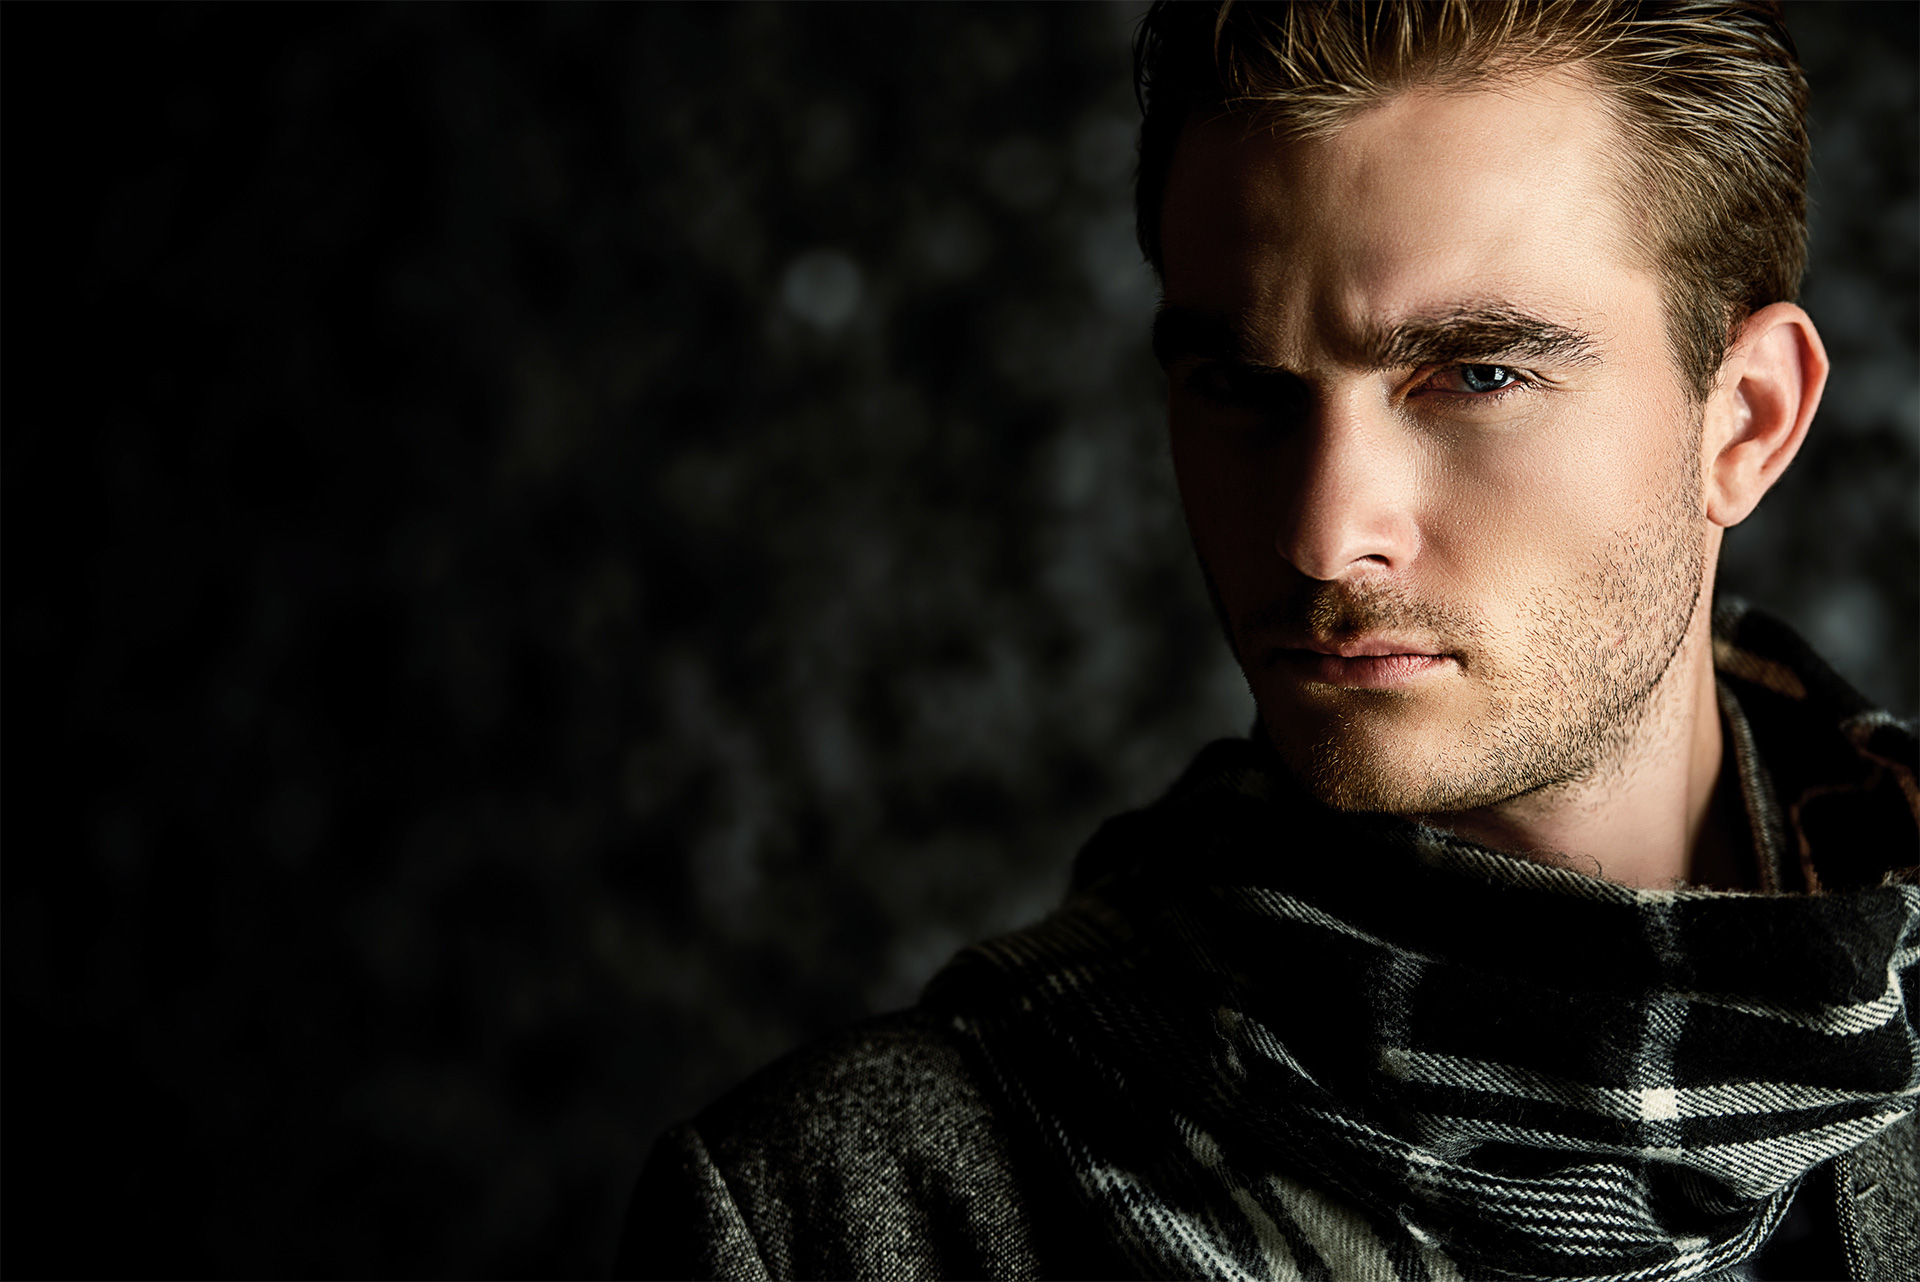
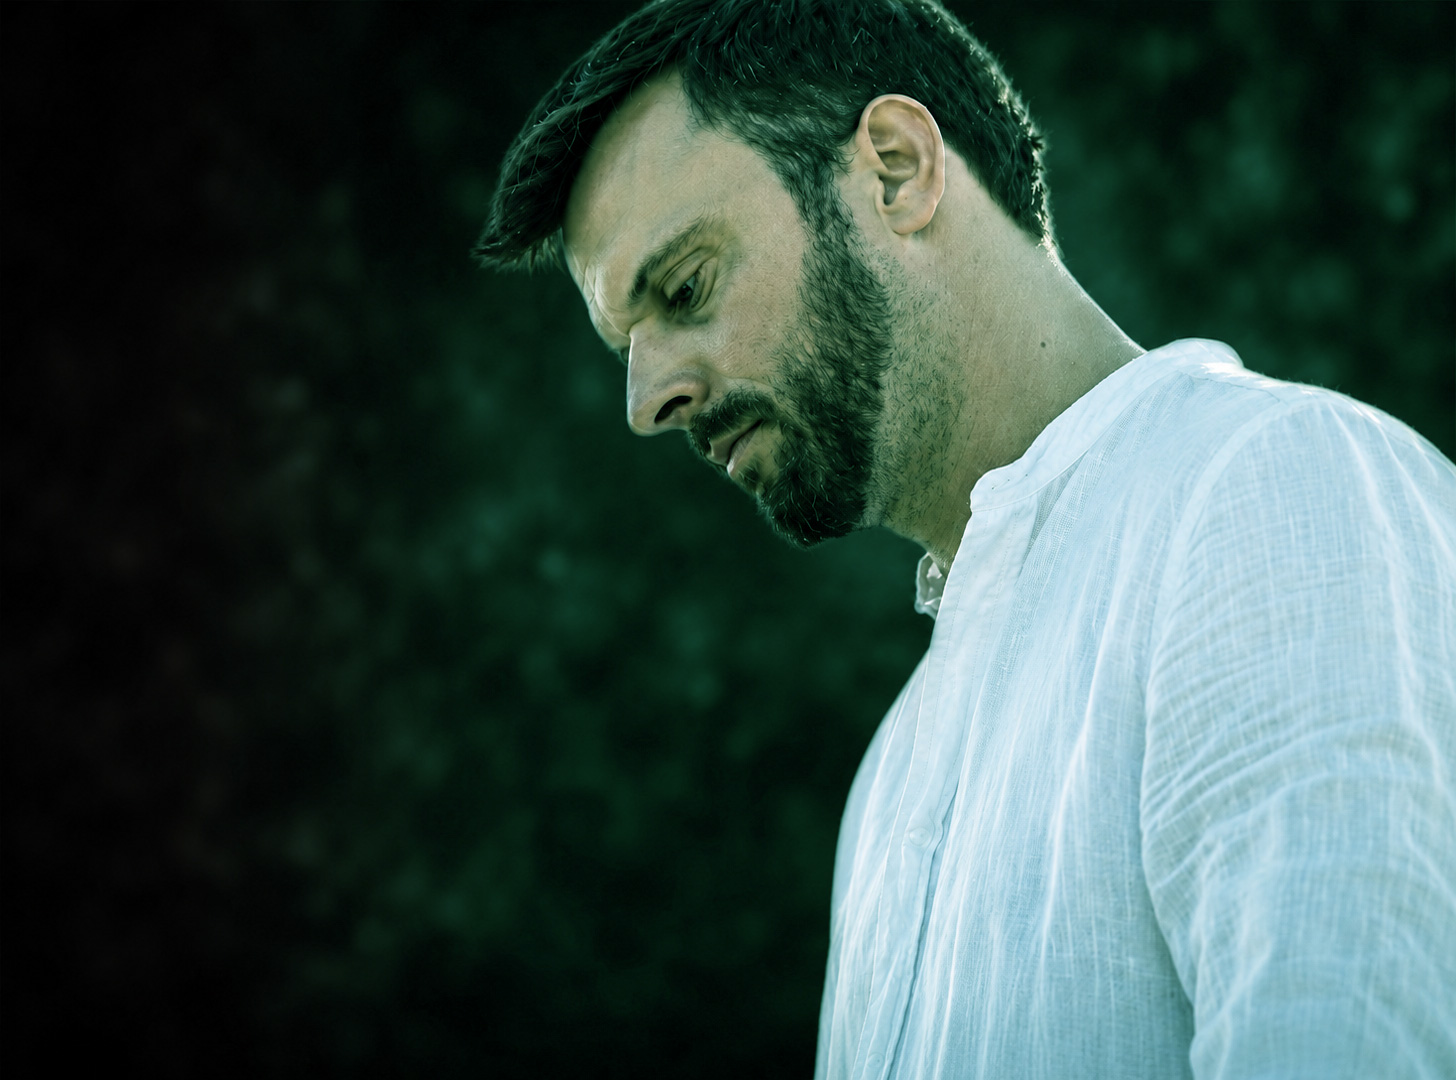
fix(site): fix images of artist

diff --git a/index.html b/index.html
@@ -82,8 +82,7 @@
   <section class="about section--light" id="about">
     <div class="container about__grid">
       <div class="about__photo reveal">
-        <!-- Replace the src below with a real photo of Koen (landscape, ~3:2). -->
-        <img src="assets/img/placeholder-landscape.svg" alt="Koen Janssen" width="1200" height="800" loading="lazy" />
+        <img src="assets/img/about.png" alt="Koen Janssen" width="600" height="600" loading="lazy" />
       </div>
       <div class="about__body reveal">
         <p class="section__eyebrow">About</p>
@@ -91,20 +90,6 @@
         <p class="about__lead">Koen Janssen is a Belgian composer whose music has appeared in international campaigns and television productions for names including HBO, Universal, DC and NBC.</p>
         <p>Raised in Hamme, Koen first discovered orchestral music as a child, conducting imaginary ensembles to Mozart and Beethoven before learning piano. His path later moved through electronic music, DJ sets, reggae, ska and band projects&mdash;experiences that now feed a cinematic sound balancing classical emotion with contemporary production.</p>
         <p>Collaborations with artists, vocalists and live musicians have grown into a catalogue of albums and production music released through <strong>Warner Chappell Production Music</strong>, Elbroar Trailer Music and Color TV.</p>
-        <div class="about__stats">
-          <div class="about__stat">
-            <span class="about__stat-num">7</span>
-            <span class="about__stat-label">Major releases</span>
-          </div>
-          <div class="about__stat">
-            <span class="about__stat-num">2019</span>
-            <span class="about__stat-label">Debut album</span>
-          </div>
-          <div class="about__stat">
-            <span class="about__stat-num">Global</span>
-            <span class="about__stat-label">Screen placements</span>
-          </div>
-        </div>
       </div>
     </div>
   </section>

diff --git a/assets/css/style.css b/assets/css/style.css
@@ -449,15 +449,16 @@ strong { font-weight: 600; color: var(--white); }
 .about { padding: clamp(70px, 10vw, 130px) 0; }
 .about__grid {
   display: grid;
-  grid-template-columns: 0.85fr 1.15fr;
+  grid-template-columns: 1fr 1.15fr;
   gap: clamp(32px, 5vw, 72px);
   align-items: center;
 }
 .about__photo { position: relative; }
 .about__photo img {
   width: 100%;
-  aspect-ratio: 3 / 2;
+  aspect-ratio: 1 / 1;
   object-fit: cover;
+  object-position: left center;
   border-radius: var(--radius);
   border: 1px solid var(--line);
   box-shadow: var(--shadow);
@@ -481,35 +482,9 @@ strong { font-weight: 600; color: var(--white); }
   margin: 0 0 22px;
 }
 
-.about__stats {
-  display: flex;
-  flex-wrap: wrap;
-  gap: 22px 52px;
-  margin-top: 36px;
-  padding-top: 32px;
-  border-top: 1px solid var(--line);
-}
-.about__stat { display: flex; flex-direction: column; }
-.about__stat-num {
-  font-family: var(--font-display);
-  font-size: clamp(1.7rem, 2.4vw, 2rem);
-  font-weight: 700;
-  line-height: 1;
-  letter-spacing: -0.02em;
-  color: var(--white);
-}
-.about__stat-label {
-  margin-top: 9px;
-  font-size: 0.7rem;
-  letter-spacing: 0.16em;
-  text-transform: uppercase;
-  color: var(--muted-dim);
-  font-weight: 500;
-}
-
 @media (max-width: 860px) {
   .about__grid { grid-template-columns: 1fr; gap: 36px; }
-  .about__photo img { aspect-ratio: 16 / 9; }
+  .about__photo img { aspect-ratio: 1 / 1; }
 }
 
 /* Music / discography ----------------------------------------------------- */
